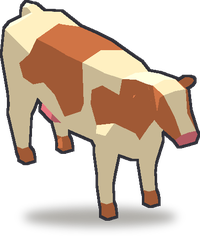
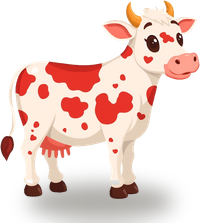
Поставить симментальскую корову — коровник закрыт
Разворот записан в flip.txt, а не в команду. Полоса срезки на ней
отработала правильно с первого раза: ноги целые, хотя они такие же
кремовые, как у холмогорской.

Claude-Session: https://claude.ai/code/session_013ovumMuRfj2SmgMR5kzGwz

diff --git a/docs/ART-TODO.md b/docs/ART-TODO.md
@@ -33,7 +33,7 @@ python3 tools/import-art.py картинка.png <id>
 
 ## Список
 
-Всего животных 19, готовы 17; одна из кур временная.
+Всего животных 19, готовы 18; одна из кур временная.
 
 | Готово | Файл | Порода | Постройка | Уровень | Как выглядит |
 |:---:|---|---|---|:---:|---|
@@ -53,7 +53,7 @@ python3 tools/import-art.py картинка.png <id>
 | ✅ | `breed-mirgorod.png` | Миргородская | Свинарник | 9 | Рябая: розовая с чёрными пятнами |
 | ✅ | `breed-holmkor.png` | Холмогорская | Коровник | 10 | Чёрно-пёстрая, розовое вымя |
 | ✅ | `breed-landras.png` | Ландрас | Свинарник | 11 | Ровно-розовая без пятен, уши торчком |
-|  | `breed-simment.png` | Симментальская | Коровник | 13 | Корова рыже-пёстрая, белая голова |
+| ✅ | `breed-simment.png` | Симментальская | Коровник | 13 | Бело-красная в пятнах, белая голова |
 | ✅ | `breed-krupbel.png` | Крупная белая | Свинарник | 13 | Круглая розовая, уши висят на глаза |
 |  | `breed-vladimir.png` | Владимирский тяжеловоз | Конюшня | 14 | Гнедой тяжеловоз, щётки на ногах |
 
@@ -129,6 +129,10 @@ cute cartoon bay draft horse with feathered hooves, 3/4 view facing right, full 
 круглая с висящими на глаза ушами. Две последние обе розовые, спасает
 только силуэт: если бы уши у ландраса вышли висячими, как просили
 сначала, пришлось бы одну резать.
+
+Коровник закрыт: чёрно-пёстрая и бело-красная — в плитке не спутать.
+Пятна у симментальской вышли ярче, чем у настоящей породы, скорее
+клубничные, чем рыжие, но масть от холмогорской отличают уверенно.
 
 Курятник закрыт: шесть пород, у каждой своя масть — белая, чёрная, белая
 высокая, рыжая с белой головой, серебристая, рыжая в крапинку. Десять сначала
